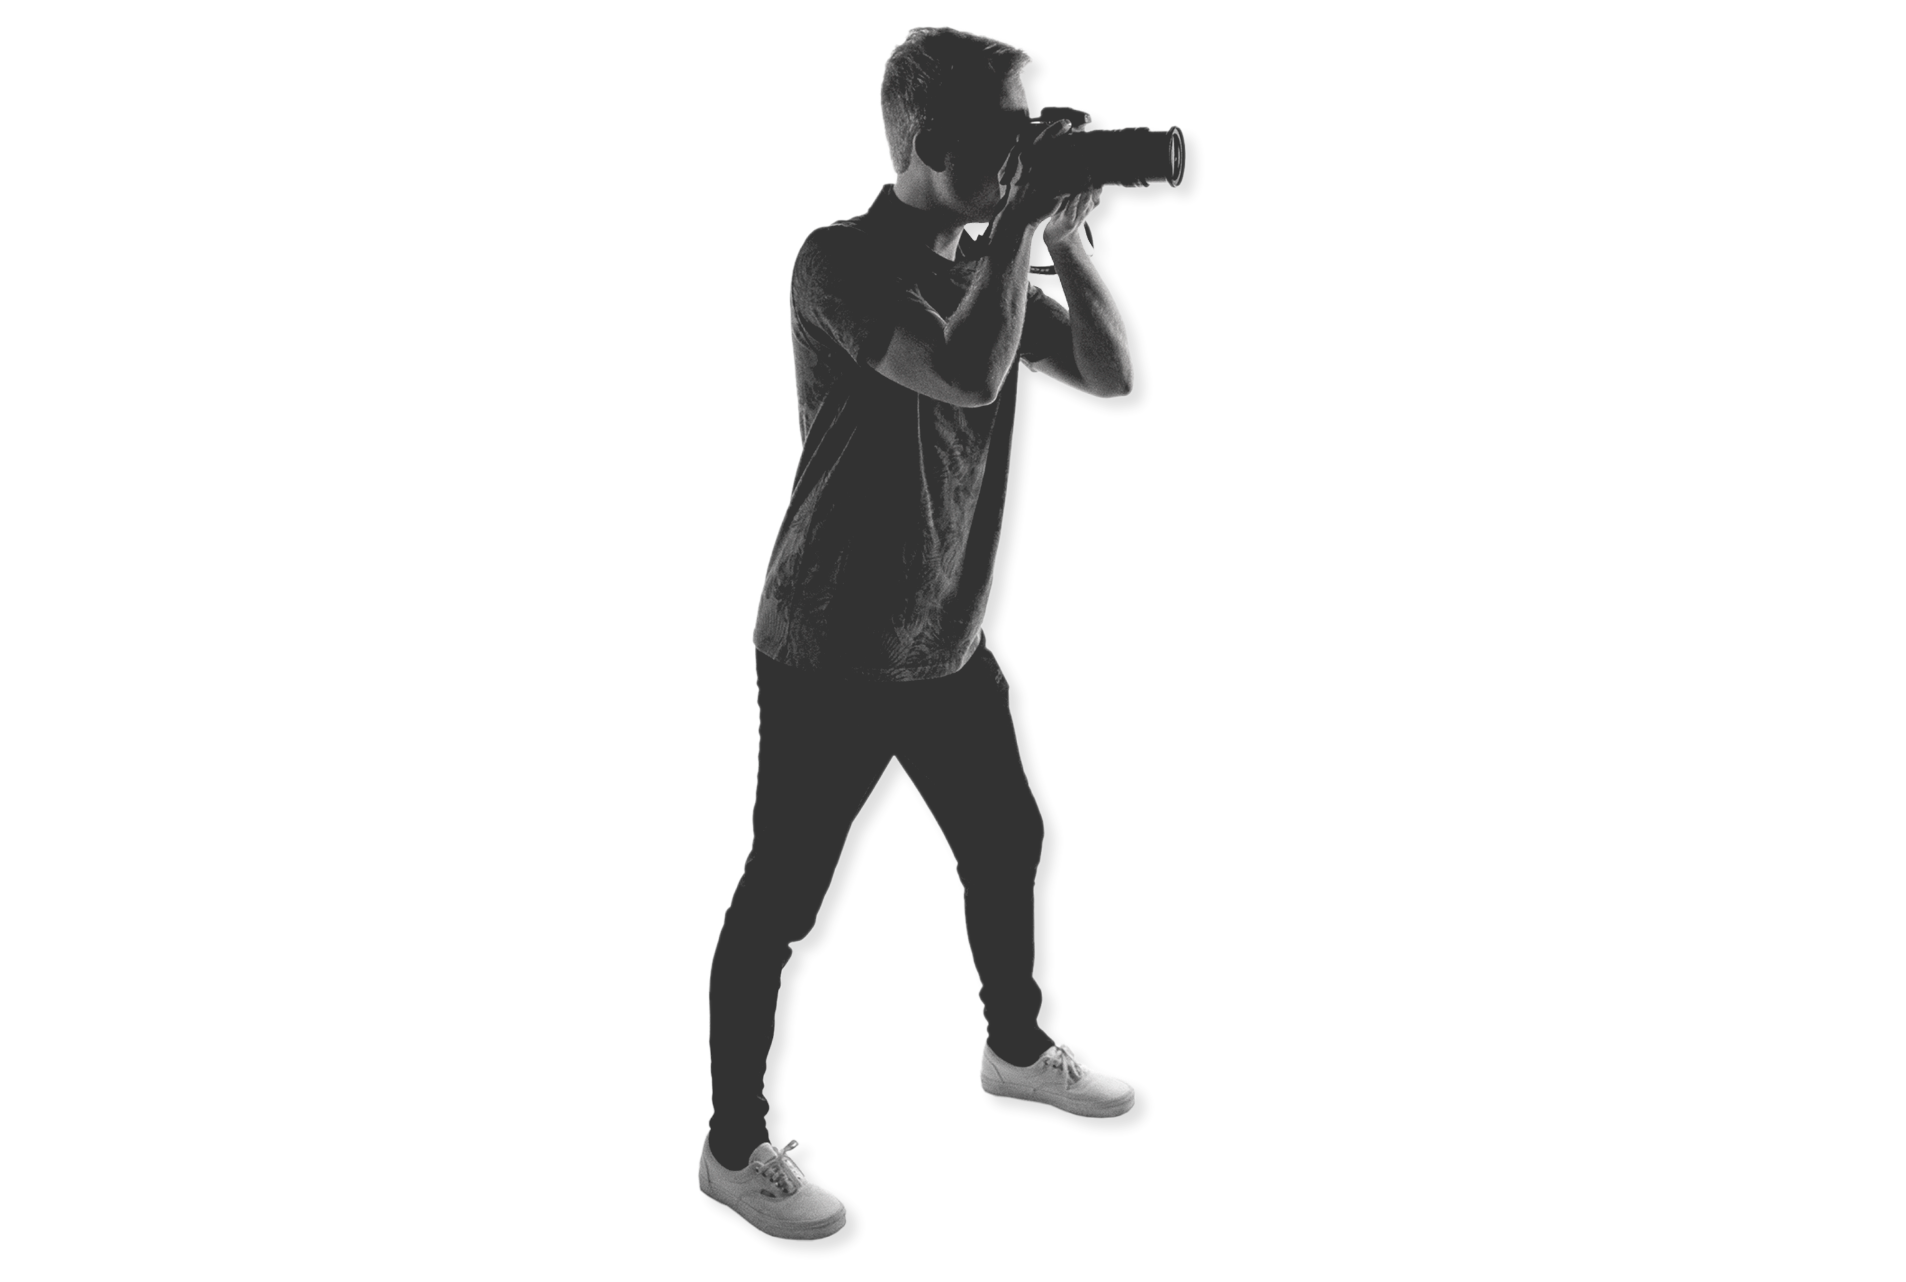
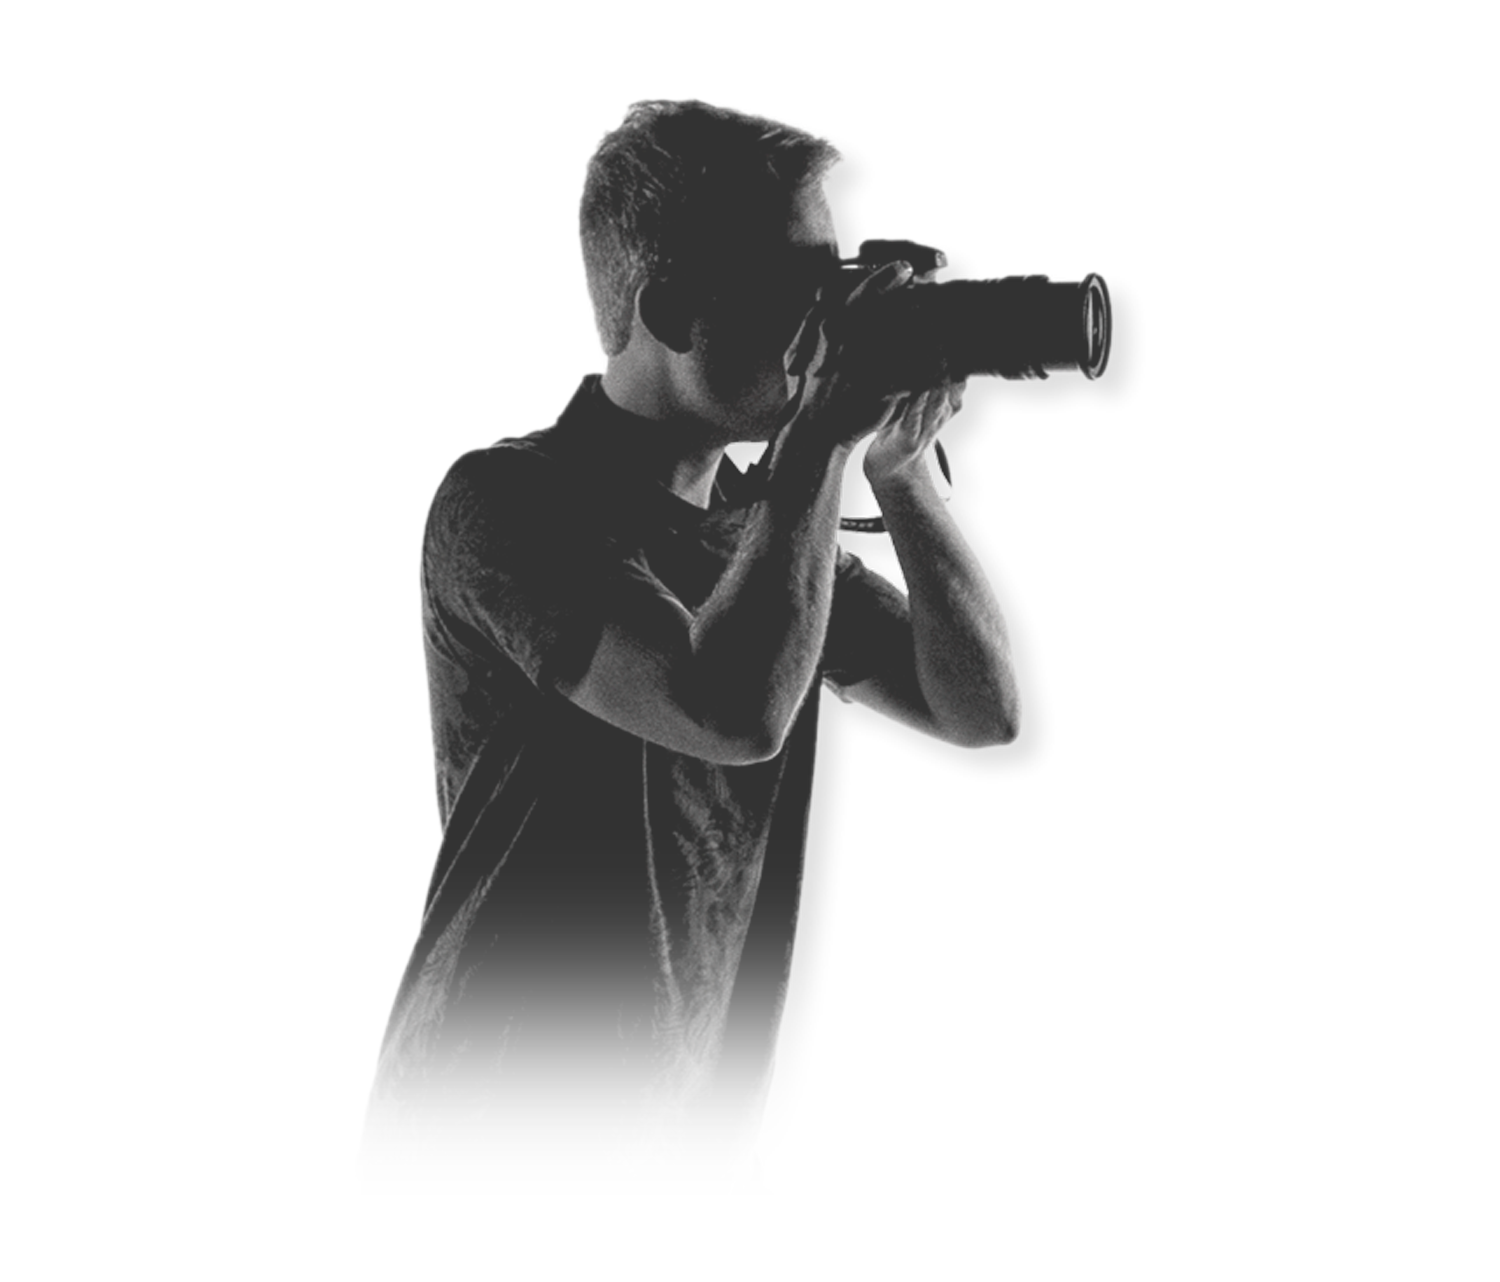
Optimized for mobile

Changed region(s): [[0.2453, 0.0, 0.7667, 0.9672]]

diff --git a/src/sass/pages/homePage/_h3.scss b/src/sass/pages/homePage/_h3.scss
@@ -43,6 +43,10 @@
         background-size: cover;
         background-position: center;
         opacity: .1;
+
+        @include respond(phone) {
+            background-image: url('../../../assets/home-page/h3/corner-fade-sm.png');
+        }
     }
 
     &__background-2 {
@@ -57,6 +61,10 @@
         background-position: center;
         opacity: .06;
         z-index: 0;
+
+        @include respond(phone) {
+            background-image: url('../../../assets/home-page/h3/corner-fade-sm.png');
+        }
     }
 
     &__background-3 {
@@ -71,6 +79,10 @@
         transform: rotate(180deg);
         z-index: 0;
         opacity: .05;
+
+        @include respond(phone) {
+            background-image: url('../../../assets/work-page/w2-5/w1__background-sm.png');
+        }
     }
 
     // Section 1
@@ -163,6 +175,7 @@
             align-self: center;
             justify-self: flex-start;
 
+            background-image: url('../../../assets/home-page/h3/h3__camera-sm.png');
             height: 15rem;
             width: 20rem;
             transform: translate(0, 0);

diff --git a/src/sass/pages/gearPage/_g1.scss b/src/sass/pages/gearPage/_g1.scss
@@ -16,7 +16,7 @@
 
     @include respond(tab-land) {
         grid-template-columns: 1fr 35rem 35rem 1fr;
-        grid-template-rows: 8rem 10rem 5rem 11rem 12rem 1fr;
+        grid-template-rows: 8rem 10rem 7rem 9rem 12rem 1fr;
     }
 
     @include respond(tab-port) {
@@ -44,6 +44,10 @@
         background-position: bottom;
         opacity: .9;
         z-index: 0;
+
+        @include respond(phone) {
+            background-image: url('../../../assets/gear-page/g1__background-sm.png');
+        }
     }
 
     &__photo {
@@ -65,6 +69,7 @@
         }
 
         @include respond(tab-port) {
+            background-image: url('../../../assets/gear-page/g1__photo.png');
             grid-column: 2 / 3;
             grid-row: 2 / 3;
             align-self: center;
@@ -143,6 +148,7 @@
 
         @include respond(tab-land) {
             font-size: 1.6rem;
+            width: 100%;
         }
 
         @include respond(tab-port) {

diff --git a/src/sass/pages/gearPage/_gearPage.scss b/src/sass/pages/gearPage/_gearPage.scss
@@ -14,11 +14,11 @@
     background: #F0F0F0;
 
     @include respond(tab-port) {
-        grid-template-rows: 50rem 65rem 72rem 63rem 71rem;
+        grid-template-rows: 50rem 65rem 72rem 63rem 75rem;
     }
 
     @include respond(phone) {
-        grid-template-rows: 50rem 65rem 72rem 63rem 71rem;
+        grid-template-rows: 50rem 65rem 72rem 65rem 71rem;
     }
 
     @include respond(small-phone) {
@@ -36,6 +36,10 @@
     background-size: cover;
     background-position: center;
     transform: rotate(180deg);
+
+    @include respond(phone) {
+        background-image: url('../../../assets/gear-page/fade-thin-sm.jpg');
+    }
 }
 
 .g2-4__background-overlay {
@@ -49,6 +53,10 @@
     transform: rotate(180deg);
     z-index: 0;
     opacity: .7;
+
+    @include respond(phone) {
+        background-image: url('../../../assets/work-page/w2-5/w1__background-sm.png');
+    }
 }
 
 // W1: Our Work

diff --git a/src/sass/pages/workPage/_w1.scss b/src/sass/pages/workPage/_w1.scss
@@ -45,6 +45,10 @@
         background-position: bottom;
         opacity: .9;
         z-index: 0;
+
+        @include respond(phone) {
+            background-image: url('../../../assets/work-page/w1/w1__background-sm.png');
+        }
     }
 
     &__photo {
@@ -53,7 +57,7 @@
         align-self: center;
         height: 60rem;
 
-        background-image: url('../../../assets/work-page/w1/w1__photo-sm.png');
+        background-image: url('../../../assets/work-page/w1/w1__photo.png');
         background-size: cover;
         background-position: center;
         z-index: 1;
@@ -63,6 +67,7 @@
         }
     
         @include respond(tab-port) {
+            background-image: url('../../../assets/work-page/w1/w1__photo-sm.png');
             grid-column: 2 / 3;
             grid-row: 2 / 3;
             align-self: center;

diff --git a/src/sass/pages/workPage/_workPage.scss b/src/sass/pages/workPage/_workPage.scss
@@ -41,6 +41,10 @@
     transform: rotate(180deg);
     z-index: 0;
     opacity: .1;
+
+    @include respond(phone) {
+        background-image: url('../../../assets/work-page/w2-5/fade-thin-sm.jpg');
+    }
 }
 
 .w2-5__background-overlay {
@@ -54,6 +58,10 @@
     transform: rotate(180deg);
     z-index: 0;
     opacity: .7;
+
+    @include respond(phone) {
+        background-image: url('../../../assets/work-page/w2-5/w1__background-sm.png');
+    }
 }
 
 // W1: Our Work

diff --git a/src/sass/pages/teamPage/_t1.scss b/src/sass/pages/teamPage/_t1.scss
@@ -45,6 +45,10 @@
         background-position: bottom;
         opacity: .9;
         z-index: 0;
+
+        @include respond(phone) {
+            background-image: url('../../../assets/work-page/w1/w1__background-sm.png');
+        }
     }
 
     &__photo {
@@ -71,6 +75,7 @@
             width: 13rem;
             margin-left: 2rem;
             margin-top: -5rem;
+            background-image: url('../../../assets/team-page/t1__photo-sm.png');
         }
     }
 

diff --git a/src/sass/pages/gearPage/_g4.scss b/src/sass/pages/gearPage/_g4.scss
@@ -21,11 +21,12 @@
 
     @include respond(tab-port) {
         grid-template-columns: 1fr 26rem 26rem 1fr;
-        grid-template-rows: 4rem 8rem 3rem 6rem 5rem 1fr;
+        grid-template-rows: 4rem 8rem 3rem 3rem 5rem 1fr;
     }
 
     @include respond(phone) {
         grid-template-columns: 1fr 20rem 20rem 1fr;
+        grid-template-rows: 4rem 8rem 3rem 6rem 5rem 1fr;
     }
 
     @include respond(small-phone) {

diff --git a/src/sass/pages/homePage/_h2.scss b/src/sass/pages/homePage/_h2.scss
@@ -29,6 +29,10 @@
         background-image: url('../../../assets/home-page/h2/h2_gradient.jpg');
         background-size: cover;
         background-position: bottom;
+
+        @include respond(phone) {
+            background-image: url('../../../assets/home-page/h2/h2_gradient-sm.jpg');
+        }
     }
 
     &__heading {

diff --git a/src/sass/pages/teamPage/_t3.scss b/src/sass/pages/teamPage/_t3.scss
@@ -32,6 +32,10 @@
         background-image: url('../../../assets/team-page/t3_photo.jpg');
         background-size: cover;
         background-position: center;
+
+        @include respond(phone) {
+            background-image: url('../../../assets/team-page/t3_photo-sm.jpg');
+        }
     }
 
     &__banner {

diff --git a/src/sass/pages/homePage/_h4.scss b/src/sass/pages/homePage/_h4.scss
@@ -22,6 +22,10 @@
         background-size: cover;
         filter: contrast(1.2) saturate(0);
         z-index: 0;
+
+        @include respond(phone) {
+            background-image: url('../../../assets/home-page/h4/h4__photo-sm.jpg');
+        }
     }
 
     &__heading {

diff --git a/src/sass/pages/workPage/_w6.scss b/src/sass/pages/workPage/_w6.scss
@@ -50,6 +50,10 @@
         @include respond(tab-port) {
             grid-column: 1 / -1;
         }
+
+        @include respond(phone) {
+            background-image: url('../../../assets/work-page/w6/mike-sm.png');
+        }
     }
 
     &__banner {

diff --git a/src/sass/pages/teamPage/_teamPage.scss b/src/sass/pages/teamPage/_teamPage.scss
@@ -37,6 +37,10 @@
     transform: rotate(180deg);
     z-index: 0;
     opacity: .1;
+
+    @include respond(phone) {
+        background-image: url('../../../assets/team-page/fade-thin-sm.jpg');
+    }
 }
 
 // T1: Meet the team
